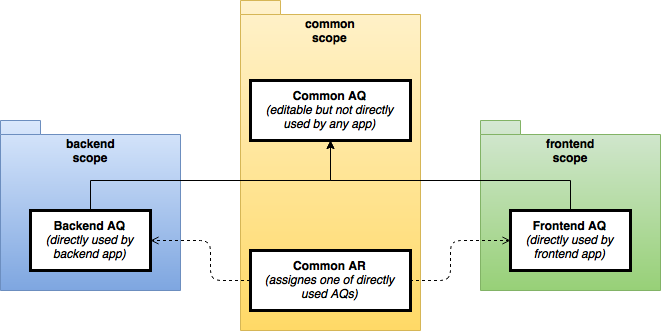
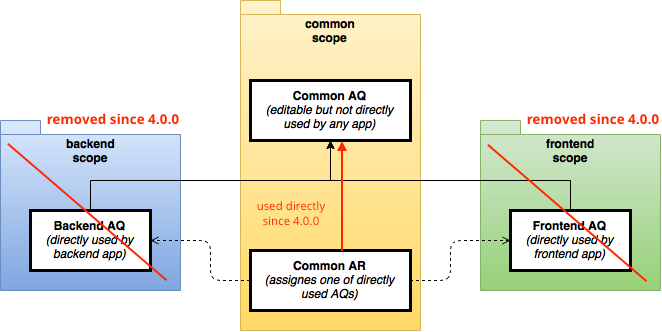
+ docs updated

diff --git a/docs/classes/models/MyModelQuery.php b/docs/classes/models/MyModelQuery.php
@@ -3,26 +3,26 @@
 namespace common\models\db\query;
 
 /**
- * This is common ActiveQuery class for [[\app\models\db\MyModel]].
+ * This is common ActiveQuery class for [[\common\models\db\MyModel]].
  *
- * @see \app\models\db\MyModel
+ * @see \common\models\db\MyModel
  */
 class MyModelQuery extends \dlds\giixer\components\GxActiveQuery {
 
     /**
      * @inheritdoc
-     * @return \app\models\db\MyModel
+     * @return \common\models\db\MyModel
      */
     protected function modelClass() {
-        return \app\models\db\MyModel::className();
+        return \common\models\db\MyModel::className();
     }
 
     /**
      * @inheritdoc
-     * @return \app\models\db\MyModel
+     * @return \common\models\db\MyModel
      */
     protected function modelTable() {
-        return \app\models\db\MyModel::tableName();
+        return \common\models\db\MyModel::tableName();
     }
 
 }

diff --git a/docs/classes/models/MyModel.php b/docs/classes/models/MyModel.php
@@ -10,7 +10,7 @@ use Yii;
  * ... here comes property docs ...
  *
  */
-abstract class MyModel extends \dlds\giixer\components\GxActiveRecord {
+class MyModel extends \dlds\giixer\components\GxActiveRecord {
 
     /**
      * Relations names
@@ -40,7 +40,7 @@ abstract class MyModel extends \dlds\giixer\components\GxActiveRecord {
      * Appropriate ActiveQuery is assigned to the model right in this base class
      */
     public static function find() {
-        return new \app\modules\kernel\models\db\query\AppAuthorQuery(get_called_class());
+        return new \common\modules\kernel\models\db\query\AppAuthorQuery(get_called_class());
     }
 
 }

diff --git a/README.md b/README.md
@@ -50,22 +50,12 @@ with descriptions about what they stand for. Each is placed on notional level as
     * Editable and maintained by developer
     * Manual changes **are not** lost after any giixer generation
     * File is placed in `common\models\db` or `common\modules\modulename\models\db`
-3. **Frontend/Backend AR**
-    * Extends **Common AR**
-    * Low level AR 
-    * Editable and maintained by developer
-    * Lie in separate application scopes `frontend` or `backend`
-    * Only these models can be directly used by application
-    * Namespaces are usually `app\models\db` or `app\modules\modulename\models\db` 
-    * Files are placed in corresponding location to their namespaces with `app` replaced by `frontend` or `backend`
+    * Only this model can be directly used by application
 
 > Structure schema is shown in [this diagram](https://github.com/dlds/yii2-giixer/blob/master/docs/schemas/ar_structure.png)
 
 This AR model structure gives you opportunity to easily update your DB schema
-and still be able to regenerate your AR models without loosing your current code changes.
-
-Because of same namespace for backend and frontend AR you can easily move some application logic to common scope
-and avoid code duplication while AR models will be still found.
+and still be able to regenerate your AR model without loosing your current code changes.
 
 > Some additional features stored in **Base AR** is shown in [MyModel](https://github.com/dlds/yii2-giixer/blob/master/docs/classes/models/MyModel.php)
 
@@ -79,20 +69,13 @@ Giixer creates following 3 ActiveQuery (AQ) classes during ARs generation.
     * Extends `\yii\db\ActiveQuery`
     * Editable and maintained by developer
     * File is placed in `common\models\db\base` or `common\modules\modulename\models\db\base`
-2. **Frontend/Backend AQ**
-    * Low level AQ which extends **Common AQ**
-    * Editable and maintained by developer
-    * Always loaded in **Base AR** (Only these can be directly used by application)
-    * Namespaces are usually `app\models\db\query` or `app\modules\modulename\models\db\query` 
-    * Files are placed in corresponding location to their namespaces with `app` part replaced by `frontend` or `backend`
+    * Always loaded in **Base AR** (Only this can be directly used by application)
 
-Base AR will automatically loads appropriate AQ based on current application scope even 
-both low level AQs have same namespace. That is because frontend application 
-does not have access to backend application scope and vice versa.
+Base AR will automatically loads appropriate AQ.
 
 > Structure schema is shown in [this diagram](https://github.com/dlds/yii2-giixer/blob/master/docs/schemas/aq_structure.png)
 
-Giixer generated default AQ logic stored in **Common AQ** to be able to easily use appropriate AR model class in custom queries.
+Giixer generates default AQ logic to be able to easily use appropriate AR model class in custom queries.
 
 > Default AQ logic is show in [MyModelQuery](https://github.com/dlds/yii2-giixer/blob/master/docs/classes/models/MyModelQuery.php)
 
@@ -230,19 +213,45 @@ is divided into modules and you need to generate classes for these modules.
 
 ```
 [
-    '^Edu[a-zA-Z]+Form$' => 'app\\modules\\edu\models\\forms'
-    '^Shop[a-zA-Z]+Form$' => 'app\\modules\\shop\\models\\forms'
-    '^Edu[a-zA-Z]+Search$' => 'app\\modules\\edu\\models\\db\\search',
-    '^Shop[a-zA-Z]+Search$' => 'app\\modules\\shop\\models\\db\\search',
+    '^{Modules}[a-zA-Z]+Form$' => '{module}\models\\forms',
+    '^Core[a-zA-Z]+Form$' => 'models\\forms',
+    '^{modules}-[a-z-]+$' => '{module}\\views',
 ]
 ```
-In example above application has two modules Edu and Shop.
+In example above we can see our application contains modules and also some direct laying "Core" files.
 
-Regex is used as array keys and required namespace is used for array values. 
-Giixer than use appropriate namespaces for matched class names and generates
-its files in path corresponding namespace.
+You can see that we defined also rule for views to be able to place generated view files to appropriate folder.
 
----
+There are some special tags you can use when you specifying your rules.
+
+##### Special tags #####
+
+- {Module} - will be replaced with current module name
+- {Modules} - will be replaced with all modules names regex
+- {module} - will be replaced with current module id
+- {modules} - will be replaced with all modules ids regex
+
+To be able to use these special tags you have to specify your modules names and ids.
+
+```
+[
+    'edu' => 'Edu',
+    'shop' => 'Shop',
+    // ...
+]
+```
+
+Array index is used for modules IDs. Array values for modules Names.
+
+During generation Giixer will automatically replace these tags so final rules look like bellow *(we are generating some Edu model)*.
+
+```
+[
+    '^(Edu|Shop){1}[a-zA-Z]+Form$' => 'modules\edu\models\\forms',
+    '^Core[a-zA-Z]+Form$' => 'models\\forms',
+    '^(edu|shop){1}-[a-z-]+$' => 'modules\edu\\views',
+]
+```
 
 #### `bases` option
 
@@ -250,28 +259,19 @@ Defines base classes for specific components, controllers and other application 
 
 ```
 [
-	dlds\giixer\Module::BASE_CONTROLLER_BACKEND => [
-    	'^Edu[a-zA-Z]+Controller$' => 'backend\\modules\\edu\\controllers\\base\\EduBaseController',
-		'^Shop[a-zA-Z]+Controller$' => 'backend\\modules\\shop\\controllers\\base\\ShopBaseController',
+	BaseHelper::RK_CONTROLLER_BE => [
+		'{Modules}[a-zA-Z]+Controller$' => '{module}\\controllers\\base\\{Module}BaseController',
+		'Core[a-zA-Z]+Controller$' => 'controllers\\base\\CoreBaseController',
 	],
-	dlds\giixer\Module::BASE_CONTROLLER_FRONTEND => [
-		'^Edu[a-zA-Z]+Controller$' => 'frontend\\modules\\edu\\controllers\\base\\EduBaseController',
-		'^Shop[a-zA-Z]+Controller$' => 'frontend\\modules\\shop\\controllers\\base\\ShopBaseController',
-	],
-	dlds\giixer\Module::BASE_URL_ROUTE_HELPER => 'common\\components\\helpers\\url\\UrlRouteHelper',
-	dlds\giixer\Module::BASE_URL_RULE_HELPER => 'common\\components\\helpers\\url\\UrlRuleHelper',
-	dlds\giixer\Module::BASE_ELEMENT_HELPER_BACKEND => [
-		'^Edu[a-zA-Z]+Helper$' => 'backend\\modules\\edu\\components\\helpers\\EduElementHelper',
-		'^Shop[a-zA-Z]+Helper' => 'backend\\modules\\shop\\components\\helpers\\ShopElementHelper',
-	],
-	dlds\giixer\Module::BASE_ELEMENT_HELPER_FRONTEND => [
-		'^Edu[a-zA-Z]+Helper$' => 'frontend\\modules\\edu\\components\\helpers\\EduElementHelper',
-		'^Shop[a-zA-Z]+Helper' => 'frontend\\modules\\shop\\components\\helpers\\ShopElementHelper',
-	],
+	BaseHelper::RK_CONTROLLER_FE => [
+		'{Modules}[a-zA-Z]+Controller$' => '{module}\\controllers\\base\\{Module}BaseController',
+		'Core[a-zA-Z]+Controller$' => 'controllers\\base\\CoreBaseController',
+    ],
+    // ...
 ]	
 ```
 
-Above you can see configuration for two application modules Edu and Shop which both has custom base controller classes, UrlRoute and UrlRule base class and Helper class.
+Above you can see configuration for modules controllers which have custom base classes.
 
 > If custom controller (frontend or backend) base class is specified it must extends **GxController**. Otherwise the **GxController** will be used directly as parent class. (**GxController** extends default `\yii\web\Controller`).
 
@@ -303,8 +303,7 @@ Defines custom translations categories.
 ```
 [
 	'dynagrid' => [
- 		'^Edu[a-zA-Z]+$' => 'edu/dynagrid	',
-		'^Shop[a-zA-Z]+$' => 'shop/dynagrid',
+ 		'^{Modules}[a-zA-Z]+$' => '{module}/dynagrid',
     ],
 ],
 ```
